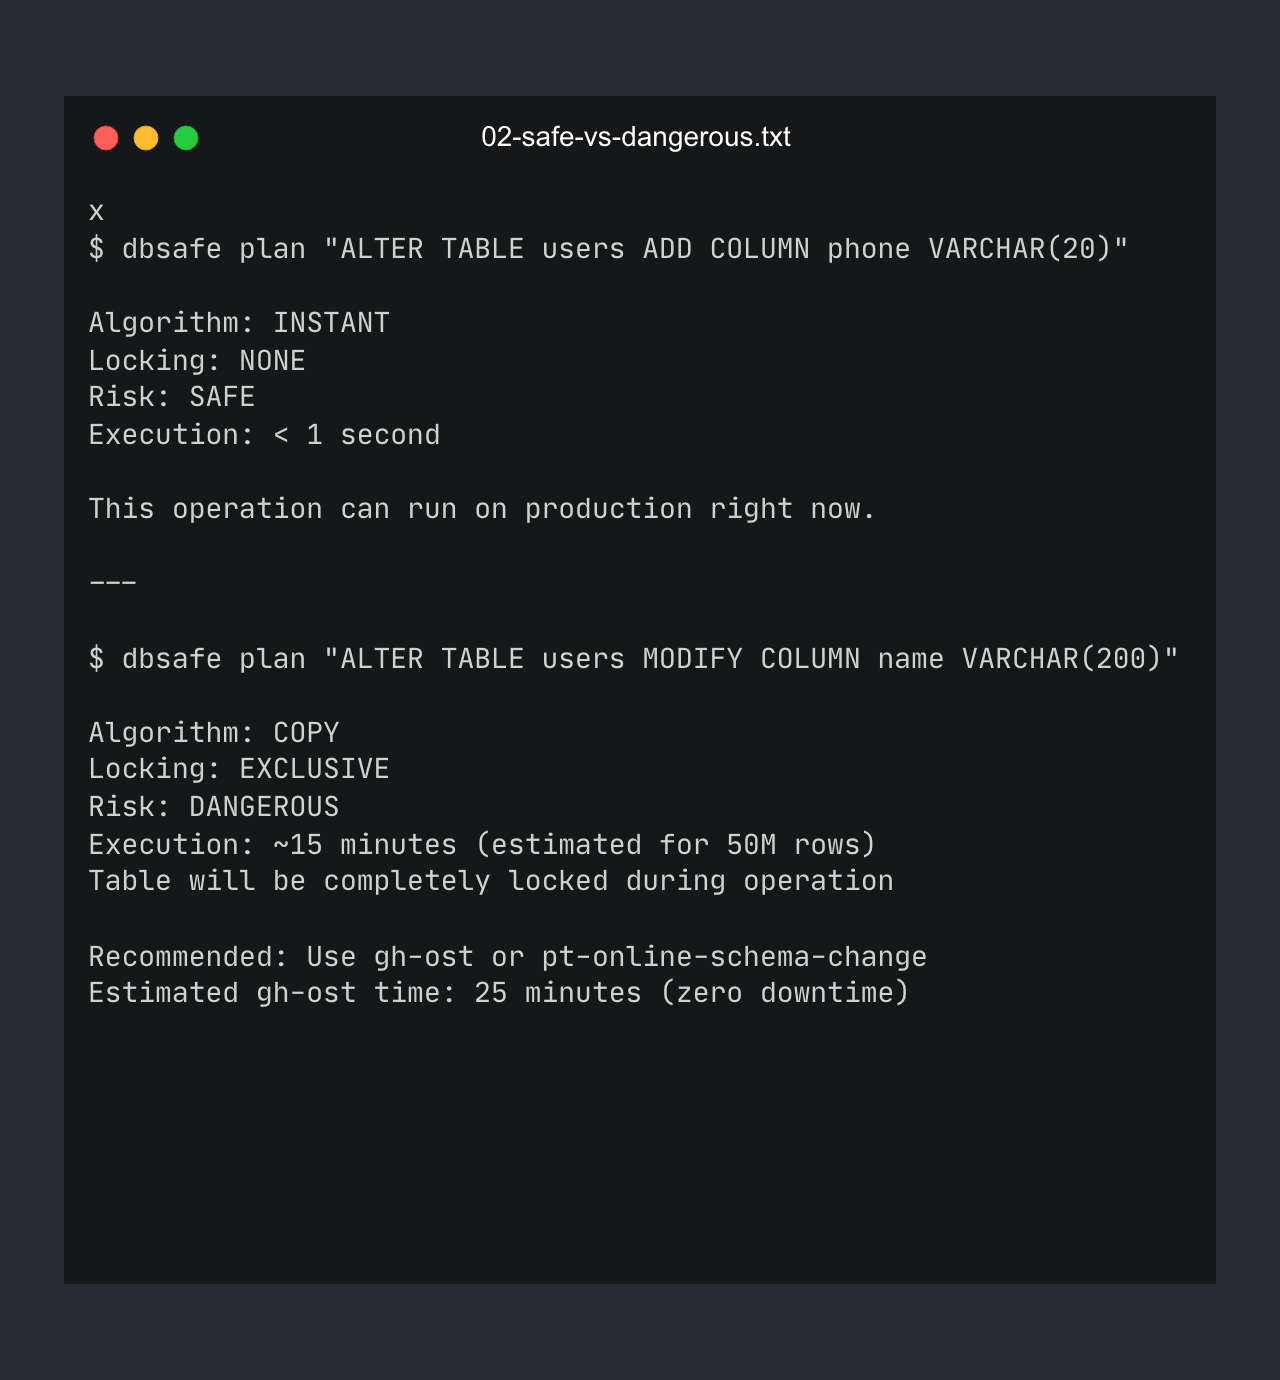
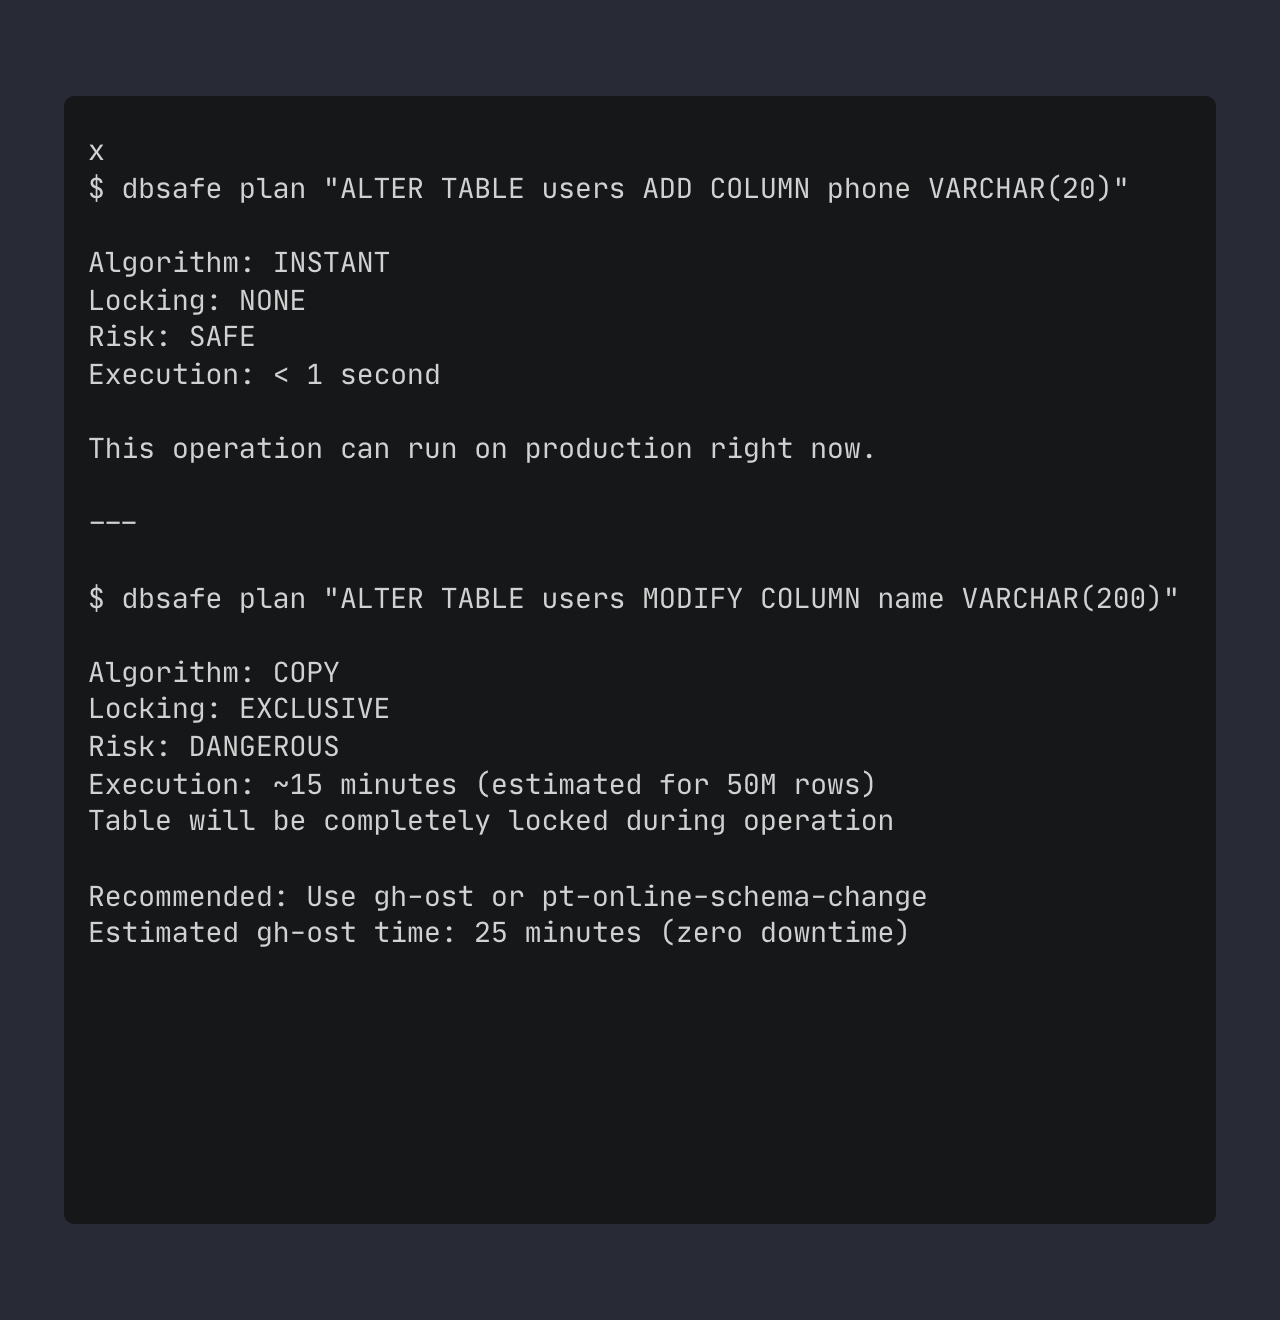
Update Carbon images and fix styling issues
- Regenerate Carbon images without title bar for cleaner look
- Fix _syntax.scss with proper Dracula syntax highlighting
- Add YAML front matter to main.scss for Jekyll processing
- Add markdown="1" to details tags for proper code rendering
- Reduce Carbon image size to 600px and left-align
- Improve spacing in collapsible code blocks

diff --git a/_sass/_syntax.scss b/_sass/_syntax.scss
@@ -1,2 +1,89 @@
-bundler: command not found: rougify
-Install missing gem executables with `bundle install`
+// Dracula syntax highlighting theme
+// Based on https://draculatheme.com/
+
+.highlight {
+  background-color: #282a36;
+  color: #f8f8f2;
+  padding: 1rem;
+  border-radius: 0.375rem;
+  overflow-x: auto;
+  margin: 1rem 0;
+
+  pre {
+    margin: 0;
+    background-color: transparent;
+  }
+
+  code {
+    background-color: transparent;
+    color: #f8f8f2;
+  }
+
+  // Comments
+  .c, .cm, .cp, .c1, .cs { color: #6272a4; font-style: italic; }
+
+  // Errors
+  .err { color: #f8f8f2; background-color: #ff5555; }
+
+  // Keywords
+  .k, .kc, .kd, .kn, .kp, .kr, .kt { color: #ff79c6; }
+
+  // Operators
+  .o, .ow { color: #ff79c6; }
+
+  // Punctuation
+  .p { color: #f8f8f2; }
+
+  // Names
+  .n, .nb, .nc, .no, .ni { color: #f8f8f2; }
+  .nd, .ne, .nf, .nl, .nn { color: #50fa7b; }
+  .nx { color: #f8f8f2; }
+  .py { color: #f8f8f2; }
+  .nt { color: #ff79c6; }
+  .nv, .vc, .vg, .vi { color: #8be9fd; }
+
+  // Strings
+  .s, .sb, .sc, .sd, .s2, .se, .sh, .si, .sx, .sr, .s1, .ss { color: #f1fa8c; }
+
+  // Numbers
+  .m, .mf, .mh, .mi, .il, .mo, .mb, .mx { color: #bd93f9; }
+
+  // Generics
+  .gd { color: #ff5555; }
+  .ge { font-style: italic; }
+  .gr { color: #ff5555; }
+  .gh { color: #f8f8f2; font-weight: bold; }
+  .gi { color: #50fa7b; }
+  .go { color: #6272a4; }
+  .gp { color: #f8f8f2; }
+  .gs { font-weight: bold; }
+  .gu { color: #f8f8f2; font-weight: bold; }
+  .gt { color: #ff5555; }
+
+  // Language specific
+  .language-bash .nb { color: #50fa7b; }
+  .language-shell .nb { color: #50fa7b; }
+}
+
+// Inline code
+code.highlighter-rouge {
+  background-color: #282a36;
+  color: #f1fa8c;
+  padding: 0.2em 0.4em;
+  border-radius: 0.25rem;
+  font-size: 0.9em;
+}
+
+// Code blocks without highlighting
+pre.highlight {
+  background-color: #282a36;
+  color: #f8f8f2;
+  padding: 1rem;
+  border-radius: 0.375rem;
+  overflow-x: auto;
+
+  code {
+    background-color: transparent;
+    padding: 0;
+  }
+}

diff --git a/_sass/_custom.scss b/_sass/_custom.scss
@@ -247,6 +247,22 @@ footer {
   }
 }
 
+// Carbon code images
+.content img[src*="dbsafe-"],
+.content img[src*="carbon-"] {
+  max-width: 600px;
+  width: 100%;
+  height: auto;
+  margin: 1.5rem 0;
+  display: block;
+  border-radius: 0.5rem;
+  box-shadow: 0 4px 6px rgba(0, 0, 0, 0.1);
+
+  @media (max-width: 768px) {
+    max-width: 100%;
+  }
+}
+
 // Collapsible code blocks
 details {
   margin: 1.5rem 0;
@@ -285,8 +301,16 @@ details {
   // Code blocks inside details
   div.highlighter-rouge,
   figure.highlight {
-    margin: 0;
+    margin: 0.75rem 0;
     border-radius: 0;
+
+    &:first-of-type {
+      margin-top: 1rem;
+    }
+
+    &:last-of-type {
+      margin-bottom: 1rem;
+    }
 
     pre {
       margin: 0;
@@ -296,7 +320,26 @@ details {
 
   // Plain code blocks
   pre {
-    margin: 0;
+    margin: 0.75rem 0;
     border-radius: 0;
+
+    &:first-of-type {
+      margin-top: 1rem;
+    }
+
+    &:last-of-type {
+      margin-bottom: 1rem;
+    }
+  }
+
+  // Paragraph spacing inside details
+  p {
+    margin: 0.75rem 1rem;
+  }
+
+  // Better spacing for multiple code blocks
+  div.highlighter-rouge + div.highlighter-rouge,
+  figure.highlight + figure.highlight {
+    margin-top: 0.75rem;
   }
 }

diff --git a/assets/css/main.scss b/assets/css/main.scss
@@ -1,3 +1,6 @@
+---
+---
+
 @import "variables";
 @import "syntax";
 @import "custom";

diff --git a/_posts/2026-02-14-introducing-dbsafe-know-before-you-alter.md b/_posts/2026-02-14-introducing-dbsafe-know-before-you-alter.md
@@ -33,7 +33,7 @@ dbsafe is a command-line tool that connects to your MySQL server, analyzes your 
 
 ![dbsafe plan output showing INSTANT algorithm and SAFE risk level](/assets/img/gallery/dbsafe-output-safe.png)
 
-<details>
+<details markdown="1">
 <summary>View code</summary>
 
 ```bash
@@ -62,7 +62,7 @@ Here's what makes schema changes tricky: similar-looking statements can behave c
 
 ![Comparison of safe ADD COLUMN vs dangerous MODIFY COLUMN operations](/assets/img/gallery/dbsafe-safe-vs-dangerous.png)
 
-<details>
+<details markdown="1">
 <summary>View code</summary>
 
 **Adding a column at the end (SAFE):**
@@ -107,7 +107,7 @@ If you're running Percona XtraDB Cluster, dbsafe detects it and adjusts its anal
 
 ![dbsafe topology detection for Percona XtraDB Cluster](/assets/img/gallery/dbsafe-topology-pxc.png)
 
-<details>
+<details markdown="1">
 <summary>View code</summary>
 
 ```bash
@@ -146,7 +146,7 @@ dbsafe also analyzes DELETE and UPDATE statements:
 
 ![DML analysis showing chunked DELETE script generation](/assets/img/gallery/dbsafe-dml-analysis.png)
 
-<details>
+<details markdown="1">
 <summary>View code</summary>
 
 ```bash
@@ -181,7 +181,7 @@ It uses [`EXPLAIN`](https://dev.mysql.com/doc/refman/8.0/en/explain.html) to est
 
 ![Version comparison between MySQL 8.0.11 and 8.0.29+ INSTANT DDL support](/assets/img/gallery/dbsafe-version-comparison.png)
 
-<details>
+<details markdown="1">
 <summary>View code</summary>
 
 **On MySQL 8.0.11:**
